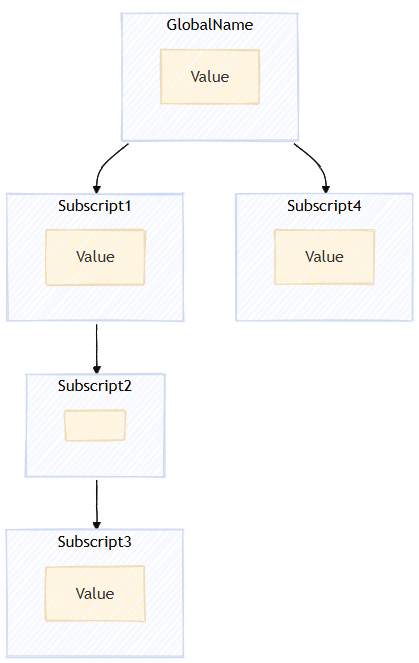
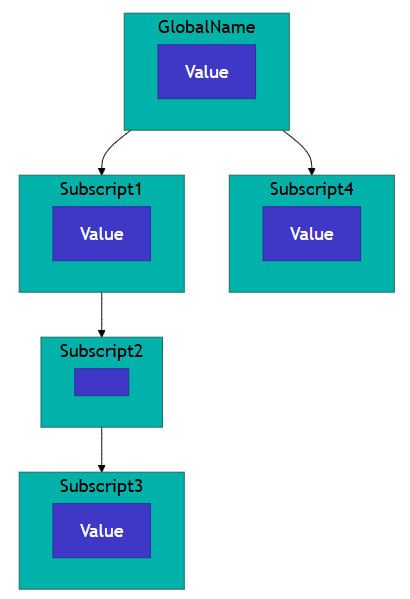
Added IRIS BI

diff --git a/ServerSideCoding/GlobalsMermaid.html b/ServerSideCoding/GlobalsMermaid.html
@@ -23,29 +23,42 @@
     <div height="100px"></div>
     <div class="mermaid" id="mermaid-chart">
 flowchart TD
+    bird["Birds of North America"]
 
+    subgraph Anatidae["Anatidae"]
+        Anatidae_val["Ducks, Geese and Swans"]
+    end
 
-subgraph root [sample.PetsD]
-a[3]
-end
-subgraph node1 [1]
-H["['','Whiskers','Cat',3]"]
-end
-subgraph node2 [2]
-D["['','Fido','Dog',5]"]
-end
-subgraph node3 [3]
-G["['','Bugs','Rabbit',95]"]
-end
+    subgraph Aix["Aix"]
+        Aix_val["Wood Duck"]
+    end
 
+    subgraph Anas["Anas"]
+        Anas_val["American Black Duck"]
+    end
 
+    subgraph Branta["Branta"]
+        Branta_val["Barnacle Goose"]
+    end
 
+    subgraph Odontophoridae["Odontophoridae"]
+        Odontophoridae_val["New World Quails"]
+    end
 
+    subgraph Callipepia["Callipepia"]
+        Callipepia_californica["California Quail"]
+        Callipepia_gambelii["Gambel's Quail"]
+    end
 
+    bird --> Anatidae
+    bird --> Odontophoridae
 
-root-->node1
-root-->node2
-root-->node3
+    Anatidae --> Aix
+    Anatidae --> Anas
+    Anatidae --> Branta
+
+    Odontophoridae --> Callipepia
+
 
     </div>
 
@@ -54,7 +67,19 @@ root-->node3
   mermaid.initialize({
     startOnLoad: true,          // we'll run explicitly
     theme: 'base',
-    look: 'handDrawn',
+    themeVariables :{
+        
+        primaryColor: '#3f38c7',
+        primaryTextColor: '#fff',
+        primaryBorderColor: '#2F2A95',
+        lineColor: '#000000',
+        secondaryColor: '#00B2A9',
+        tertiaryColor: '#00B2A9',
+        tertiaryTextColor: "#000000",
+        fontSize:"20px",
+        systemFontWeight:"700",
+    },
+    look: 'classic',
     
     flowchart: { htmlLabels: true },   
     sequence: { useMaxWidth: true }    

diff --git a/Analytics/IRIS-BI.md b/Analytics/IRIS-BI.md
@@ -1,0 +1,237 @@
+# InterSystems IRIS BI Quickstart
+
+InterSystems IRIS BI is an embedded Business Intelligence tool. As it is embedded in InterSystems IRIS, the tool is run alongside the data meaning it can run on near real-time data and run within other applications.
+
+## Set-up
+
+### 1. Run InterSystems IRIS
+ 
+To get started using analytics, start an instance of InterSystems IRIS. This can be done with Docker (see [Get IRIS Community With Docker](../GettingStartedWithIRISCommunity/RunningWithDocker.md)), or you can use any other running IRIS instance.
+
+```sh
+docker run --name iris-analytics --publish 1972:1972 --publish 52773:52773 -d intersystemsdc/iris-community:latest-em
+```
+
+Its recommended to use the docker image at `intersystemsdc` because this has the InterSystems Package Manager pre-installed, but [IPM can also be installed separately](https://github.com/intersystems/ipm). IPM will be used to install the samples data below.
+
+Log into the management portal at http://localhost:52773/csp/sys/%25CSP.Portal.Home.zen with the credentials:
+
+- Username: SuperUser
+- Password: SYS
+
+### 2. Activate Namespace
+
+Analytics is not enabled by default. To enable it for a given namespace:
+
+1. Navigate to **System Administration** -> **Security** -> **Applications** -> **Web Applications** -> **Go**. This page lists all the Web Applications on your instance of InterSystems IRIS.
+
+2. Locate the CSP Application for the namespace in which you want to use Analytics, this has the name `/csp/<namespace>`, so for the USER namespace this is `/csp/user`. Select this application name to open the options.
+
+3. Click the Checkbox for **Analytics** under **Enable** and **CSP/ZEN**.
+
+4. Click **Save** at the top of the page to save changes
+
+### 3. Download Sample Data
+
+This tutorial will use sample BI data including cubes, pivot tables and dashboards. This data is available on [GitHub](https://github.com/intersystems/Samples-BI/) as well via the InterSystems Package Manager.
+
+To Install Samples-BI with IPM, ensure you have IPM installed (it will be installed already if you used the command above, otherwise installation instructions are [available on the IPM GitHub](https://github.com/intersystems/ipm)). 
+
+Open an IRIS terminal:
+
+```sh
+docker exec -it iris-analytics iris session iris
+```
+
+and run:
+
+```objectscript
+zpm "install samples-bi" 
+```
+
+Alternatively, the [Sample-BI repository](https://github.com/intersystems/Samples-BI/) is a docker-compose template, so can be used as it's own InterSystems IRIS docker container. To do this, simply run:
+
+```sh
+git clone https://github.com/intersystems/Samples-BI.git 
+cd Samples-BI
+docker-compose build 
+docker-compose up -d
+```
+
+## InterSystems IRIS BI Workflow
+
+The aim of Business intelligence and analytics is to convert raw data into actionable or usable insights. This can be broken down into three steps:
+
+### 1. Create Data Models in Architect Portal
+
+Raw data alone is not sufficient for analytics; some processing is necessary. Processing could include adding aggregate measures like the sum, count or average of a column. Data may also be organised into hierarchical or temporal categories.
+
+Data organisation is done with [OLAP Cubes](https://en.wikipedia.org/wiki/OLAP_cube). Cubes are multi-dimensional data structures that organize data into measures (values like the sum, average or count), and dimensions (like time, category or region). They enable users to slice, filter, drill down and aggregate large datasets.  
+
+### 2. Create Pivot Tables in the Analyzer portal
+
+Pivot tables are a way of organising the multi-dimensional cube data into two dimensional tables containing the required data for a specific view or purpose.
+
+### 3. Create Dashboards in the User Portal
+
+Dashboards are used to view and publish data into an easily readable format, allowing users to rapidly see insights generated from the data.
+
+## Guide
+
+### 1. Architect
+
+To open the Architect portal, open the Management Portal and navigate to Analytics -> Architect -> Go.
+
+You can create, open, save and compile cubes using the buttons at the top of the page.
+
+![architect Portal](images/ArchitectPortal.png)
+
+The properties within the Source Class are displayed in the left hand panel, while the cube properties are shown in the center. To create a new cube property, drag a property from the Source Class to the required dropdown value in the list. Once added to the list, you may need to change the desired settings, this is done in the right hand side column.
+
+As an example, we may wish to know the average UnitsSold per transaction. To do this, we can drag and drop UnitsSold to "Measures" in the center of the page. This will by default set the measure to SUM of UnitsSold. Ensuring this measure is selected, turn your attention to the right-hand 'Details' Panel, and choose `AVG` from the Aggregate Dropdown.
+
+There are many more settings and configurations to explore, these can be found in [BI Modeling | Documentation](https://docs.intersystems.com/irislatest/csp/docbook/DocBook.UI.Page.cls?KEY=D2MODEL_ch_cube), or in the [BI Tutorial | Documentation](https://docs.intersystems.com/irislatest/csp/docbook/DocBook.UI.Page.cls?KEY=D2DT_ch_setup).
+
+#### Create A Simple Cube
+
+1. Create a New Cube:
+
+    Click New at the top of the page and fill out the wizard with the following:
+
+    - Definition Type: Cube
+    - Cube Name: NewHoleFoodsSales - this will automatically fill out the display name and class name.
+    - Cube Source: Class
+    - Source Class: HoleFoods.Transaction (hit browse to find this in a UI)
+
+    Then Click Ok
+
+2. Add Measures
+
+    We want to add the AmountOfSale, TargetAmount and UnitsSold as potential measures we want to track. We are also interested in the average discount given.
+
+    - Drag `AmountOfSale`, `TargetAmount` and `UnitsSold` properties from the Source Class panel on the left hand side to the "Measures" list. Under "Details" you will see that it defaults to aggregating by the SUM of these values.
+    - Drag `Discount` to the Measures list. Here we are more interested in the average discount, so in the Details panel to the right, change the Aggregate value to AVG. 
+
+3. Add Dimensions
+
+    Our cube will have 3 dimensions, Date (year, month and Day), Product (name, category) and Region.
+
+    - Drag `DateOfSale` to the dimensions list, this will create a new time dimension and hierarchy. 
+
+    - Click on the new `DateOfSale` dimension, and find the "Extract Value with Function" setting. Change this to `Year`, and change the Name value to "YearSold".
+
+    - Repeat the dragging DateOfSale to the same dimension, change the Value function to `MonthYear`, and name to "MonthSold". Repeat again for DaySold. 
+    
+    - Drag `Product` from the source class to the Dimensions List. Then drag `Product.Category` and `Product.Name` to the Product dimension.
+    
+    - Drag `Outlet > Country > Region > Name` to form a new dimension. Change this dimension name to "Outlet Region".
+
+4. Check, compile and build
+
+    At this point, your new cube should look something like this:
+![alt text](image-4.png)
+
+    - Hit Compile to ensure the cube definition is saved and compiled.
+    - Hit Build to create the cube from the definition created.
+
+5. View sample cube
+
+    The cube built here is a simplified version of a prebuilt sample cube. To view a more complicated version, hit open and select "HoleFoods Sales", and explore some of the advanced features included here.
+
+    Moving Forward to the next step, choose whether to use the version you created, or the complete sample version.
+
+### 2. Analyzer
+
+To open the Analyzer, return the Management Portal and navigate to `Analytics -> Analyzer -> Go`. 
+
+You can also go directly from the Architect by selecting the `Tools` tab on the right-hand panel, and clicking the Analyzer Button.
+
+To open a cube, hit the cube icon at the top of the left hand panel.
+
+![alt text](images/openCubeIcon.png)
+
+The cube properties (dimensions, measures and others) will then be shown in the left hand panel.
+
+![alt text](images/measuresAndDimensions.png)
+
+To create a pivot table by dragging and dropping dimensions into the rows and columns boxes in the centre of the page. Add measures to the measures box to define what value you want to examine.
+
+#### Create A Pivot Table
+
+1. Open the "NewHoleFoodsSales" Cube from the previous step (or the old sample version equivalent)
+2. Locate `Product` -> `Product Category` in the list of dimensions. Drag this to the `Columns` box in the centre of the page.
+3. Locate `DateOfSale` -> `YearSold` and drag this into the `Rows` box.
+4. Locate `AmountOfSale` in the list of Measures and drag this to the `Measures` box in the centre of the page.
+
+    - You should now see a table of revenue by product category and year.
+    ![Analyzer Pivot Table](images/AnalyzerPivotTable.png)
+
+5. Hit the `Save As` button and choose the folder and pivot name. To create a new folder type a folder name into the Folder box.
+
+Pivot tables  can be used in a dashboard in the User Portal, or exported to Excel, CSV or PDF from the icons in the centre of the page.
+
+### 3. User Portal
+
+We can view and publish pivot tables from the User Portal.
+
+To open the User Portal, return to the Management Portal Homepage and then Navigate to `Analytics -> User Portal -> Go.`
+
+Samples-BI includes many example dashboards which you can browse for inspiration.
+
+![alt text](images/UserPortal1.png)
+
+To create a new dashboard, click the `+` icon and select Add Dashboard.
+
+![alt text](images/CreateDashboard.png)
+
+The dashboard settings are found by clicking the arrow on the left-hand side of the screen to bring out the settings panel.
+
+![alt text](images/expandSettings.png)
+
+The contents of the dashboard is handled with "Widgets", these include charts, measures and tables.
+
+#### Create a Dashboard
+
+1. Create a new dashboard
+2. Add a chart widget
+    - Expand settings panel, select widgets and click the `+` icon to open the Widget Wizard.
+    - Select a chart type (e.g. Line graph) and a saved pivot table data source (e.g. the pivot created in the previous step)
+3. Edit Widget settings
+    - Expand settings, select "Widgets" -> "Widget 1" -> Turn on "CSV Export". - You will see a new button appear above the chart which allows you to export the data as a CSV.
+    - Explore the other settings available
+4. Add a control
+    - Expand settings, select "Widgets" -> "Widget 1" -> Controls -> `+`
+    - Select:
+        - Location: Dashboard
+        - Target: * (affects all widgets with same data source)
+        - Action: "Apply Filter"
+        - Filter category: Region
+    - Click ok.
+    - A new filter should appear in the 'Filters' panel, allowing you to filter all the data on the dashboard by the selected category:
+
+    ![alt text](images/addFilter.png)
+
+5. Explore other settings and controls in the menu.
+
+6. Hit "Save" to ensure your changes are saved and published (if your dashboard is public)
+
+## DeepSeeWeb
+
+There is a community-supported user interface for the dashboards, which provides a modern lightweight UI for use instead of the User Portal
+
+To use DeepSeeWeb, run:
+
+```objectscript
+zpm "install mdx2json"
+zpm "install dsw"
+```
+
+Then open, http://localhost:52773/dsw/index.html and enter the credentials to log in
+
+![alt text](images/dswDash.png)
+
+This implementation has a dependency on the JavaScript Library Highcharts which is only free for non-commercial use and may require a paid license for production settings.
+
+## Conclusions
+
+This guide has shown how to get started using InterSystems IRIS BI to go from raw data, to insightful tables and organised dashboards. As a short quickstart, there is plenty more to discover within the [Documentation](https://docs.intersystems.com/irislatest/csp/docbook/DocBook.UI.Page.cls?KEY=D2GS_ch_intro), the [Developer Community](https://community.intersystems.com/), the [InterSystems Developers Youtube Channel](https://www.youtube.com/c/InterSystemsDevelopers) or through [Learning Services content](https://learning.intersystems.com/totara/coursecatalog/courses.php).

diff --git a/ServerSideCoding/Globals.md b/ServerSideCoding/Globals.md
@@ -8,13 +8,13 @@ Globals can be visualised as a tree diagram, where each node of the tree has a k
 
 ![alt text](images/Global-0.png)
 
-Globals are described as sparse, because nodes exist without a value if a sub-node exists. For example, in the diagram above, the Subscript2 node does not have a value, and only exists because the node at Subscript 3 is defined as `^GlobalName("Subscript1", "Subscript2", "Subscript3) = Value`. An empty node, like that at Subscript2 does not cost any resources.
+Globals are described as sparse, because nodes exist without a value if a sub-node exists. For example, in the diagram above, the Subscript2 node does not have a value, and only exists because the node at Subscript 3 is defined as `^GlobalName("Subscript1", "Subscript2", "Subscript3") = Value`. An empty node, like that at Subscript2 does not cost any resources.
+
+Reading and writing to globals has been optimised over decades and is incredibly fast, a fact which makes InterSystems IRIS one of the fastest databases available.
 
 ### Datatypes
 
-Both the keys and values within global structures can be of multiple different types, global can be used as a standard numbered array, by setting nodes as sequential integer numbers. Values can also be lists. 
-
-Reading and writing to globals has been optimised over decades and is incredibly fast.
+Both the keys and values within global structures can be of multiple different types, global can be used as a standard numbered array, by setting nodes as sequential integer numbers. Values can also be lists.
 
 ![alt text](images/global-1.png)
 
@@ -95,6 +95,8 @@ zwrite ^sample.PetsD
 */
 ```
 Here, the root node has the value 1, this shows the number of data points added. The data is stored at global node 1 as a list object, with each of the rows.
+
+The list begins with an empty value, this value is reserved for the subclass name of any subclasses of the Pets class.
 
 To access a specific value, we can use `.%OpenId()`:
 
